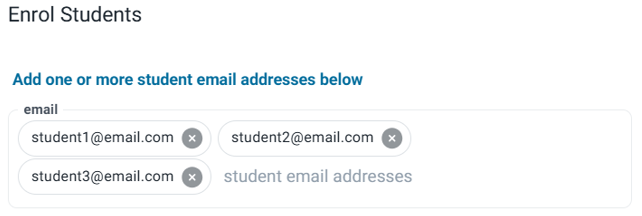
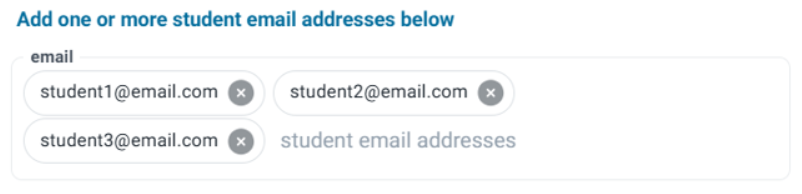
Update to good-practice.md (#21)
* Update faq.md

* Add files via upload

updated picture, removed 'enrol students' so is less confusing

* Update gettingstarted.md

* Update good-practice.md

Added headings and adjusted order.

Changed region(s): [[0.0312, 0.5876, 0.6542, 0.866], [0.0, 0.2474, 0.6542, 0.5567], [0.0, 0.0309, 0.5919, 0.1546]]

diff --git a/docs/teacher/guides/good-practice.md b/docs/teacher/guides/good-practice.md
@@ -1,32 +1,62 @@
 # Good practice
 
-## Romanised operators
+## Formatting & style for readability
 
-Use romanised operators such as $\sin$, $\frac{\mathrm{d}}{\mathrm{d}x}$ instead of $sin$, $\frac{d}{dx}$, etc.
+### Use romanised text for operators and units
 
-## Use empty lines
+Use romanised operators and scientific units to distinguish them from variables, which are italicised.
 
-Using empty lines can improve the readability and neatness of your content. Empty lines are often useful before and after an equation, and between paragraphs of text. An empty line in markdown requires _two spaces_ on the line, otherwise the line is ignored.
+*   **Operators:** Use `\sin`, `\cos`, `\log`, `\det`, etc. For derivatives, use `\mathrm{d}` as in `\dfrac{\mathrm{d}y}{\mathrm{d}x}`.
+    *   **Correct:** $\sin(x)$, $\dfrac{\mathrm{d}}{\mathrm{d}x}$
+    *   **Incorrect:** $sin(x)$, $\frac{d}{dx}$
 
-## Space between numbers and units
+*   **Units:** Use `\text{...}` or `\mathrm{...}` (mathrm allows for numbers in the units, i.e. $\mathrm{m^2}$). Ensure the unit's case is correct (e.g., `m` for milli, `M` for mega).
+    *   **Correct:** $5 \text{ m}$, $10 \text{ kN}$
+    *   **Incorrect:** $5 m$, $10 kN$
+
+### Space between numbers and units
 
 Put appropriate space between a number and its unit, such as `5 m` or `3 kg`, according to the SI conventions.
 
-## Romanise units and check their case
+e.g. `$5 \text{ m}$` to get $5 \text{ m}$
 
-Use romanised units such as $\text{m}$, $\text{kN}$ instead of $m$, $kN$. Ensure that the case of the unit is correct.
+### Use empty lines
 
-## Add tests to response areas
+Using empty lines can improve the readability and neatness of your content.
 
-In a response area, press `configure` then `tests`.
+Empty lines are often useful before and after an equation, and between paragraphs of text. An empty line in markdown requires _two spaces_ on the line, otherwise the line is ignored.
 
-Tests allow you to enter potential student responses, define whether they are correct or not, then run the evaluation function on those student responses. This allows you to quickly test whether or not the evaluation function works as expected.
+Alternatively, adding empty LaTeX text, `\text{}`, can work if all else fails.
 
-## Save and publish as you go
+## Using platform features effectively
+
+### Save and publish as you go
 
 Saving and publishing work regularly is recommended to prevent accidental data loss.
 
-## Use branching when relevant
+### Add tests to response areas
+
+In a response area, press `Configure` then `Test`.
+
+Tests allow you to enter potential student responses, define whether they are correct or not, then run the evaluation function on those student responses. This allows you to quickly test whether or not the evaluation function works as expected.
+
+### Use pre-response area text to be clear what should be entered
+
+Pre-response area text is found under `Configure` - `Input` in the evaluation function.
+
+You can use LaTeX in the pre-response area text.
+
+![Image showing a pre-response area](images/pre_response_area.png)
+
+### Use live preview and permit all types of input
+
+Live preview is found under `Configure` - `Input` - `Display settings`.
+
+Live preview instantly renders a student's input. This is very useful for long/complicated equations, as it allows students to ensure their input is correct.
+
+![Image showing a live-preview to a student's response](images/live_preview.png)
+
+### Use branching when relevant
 
 Branching is a feature for `worked solutions`. It allows you to have different solution pathways Usage examples:
 
@@ -35,44 +65,37 @@ Branching is a feature for `worked solutions`. It allows you to have different s
 
 ![gif showing the branching feature](images/branching.gif)
 
-## Use pre-response area text to be clear what should be entered
+### Use audio clips
 
-Pre-response area text is found under `configure` - `INPUT` in the evaluation function.
+Just drag + drop an audio file into the editor.
 
-You can use LaTeX in the pre-response area text.
+### Issue with input symbols
 
-![Image showing a pre-response area](images/pre_response_area.png)
+When defining the `code` of an input symbol in the response areas, the system cannot accept brackets (i.e using `dot(x)` for $\dot{x}$). The response must be formatted in a different way (i.e `dot_x`). 
 
-## Use `\dfrac` for bigger fractions when needed.
-
-Use `$\dfrac{numerator}{denominator}$` for bigger fractions when you need to display them more clearly or emphasize them. For example, `$\dfrac{3}{4}$` will produce a bigger fraction than `$\frac{3}{4}$`.
-Alternatively, you can use `$\displaystyle$` at the start of an inline equation to render everything afterwards full-size (as in display maths mode), this is especially helpful for integrals.
-
-## Use `\small` when smaller fonts or fractions are needed
-
-Use `$\small{text}$` when you need to display smaller fonts or fractions in your LaTeX expressions. For example, `$\small{\frac{1}{2}}$` will produce a smaller fraction than `$\frac{1}{2}$`.
-
-## Use audio clips
-
-Just drag + drop an audio file into the milkdown editor.
-
-## Issue with input symbols
-
-For the `code` of input symbols in the response areas, the system cannot accept brackets (i.e `dot(x)` for $\dot{x}$) and response must be formatted in different ways (i.e `dot_x`). 
-
-`a_b` will render as $a_b$ without adding an input symbol, but note that `dot_x` overrides the `_` input (in this example, will render as $\dot{x}$ instead of $dot_x$)
-
-## Use live preview and permit all types of input
-
-Live preview and input types are found in an evaluation function under `configure` - `INPUT`.
-
-Live preview instantly renders a student's input. This is very useful for long/complicated equations, as it allows students to ensure their input is correct.
-
-![Image showing a live-preview to a student's response](images/live_preview.png)
+`a_b` will render as $a_b$ without adding an input symbol, but note that `dot_x` will override the `_` input in this example (will render as $\dot{x}$ instead of $dot_x$).
 
 ## Latex help
 
-1. Use `\begin{array}` to generate a compact table i.e.  
+### Use `\dfrac` for bigger fractions when needed.
+
+Use `$\dfrac{numerator}{denominator}$` for bigger fractions when you need to display them more clearly or emphasize them. For example, `$\dfrac{3}{4}$` will produce a bigger fraction than `$\frac{3}{4}$`:
+
+$\dfrac{3}{4} \quad$    (dfrac)
+
+$\frac{3}{4} \quad$    (frac)
+
+Alternatively, you can use `$\displaystyle$` at the start of an inline equation to render everything afterwards full-size (as in display maths mode), this is especially helpful for integrals.
+
+### Use `\small` when smaller fonts or fractions are needed
+
+Use `$\small{text}$` when you need to display smaller fonts or fractions in your LaTeX expressions. For example, `$\small{\frac{1}{2}}$` will produce a smaller fraction than `$\frac{1}{2}$`.
+
+$\small{\frac{1}{2}} \quad$ (small)
+
+$\frac{1}{2}$
+
+### Use `\begin{array}` to generate a compact table i.e.  
     
     ```latex
     \begin{array}{|c|c|}
@@ -88,7 +111,7 @@ Live preview instantly renders a student's input. This is very useful for long/c
 
     ![Image showing a example of a table](images/table.png)
 
-2. Use `\begin{aligned}` to keep your working formatted nicely
+### Use `\begin{aligned}` to keep your working formatted nicely
 
     ```latex
     \begin{aligned}
@@ -100,7 +123,7 @@ Live preview instantly renders a student's input. This is very useful for long/c
 
     ![Image showing a example of a algined working](images/aligned.png)
 
-3. Use `\left` and `\right` for equations with multiple brackets
+### Use `\left` and `\right` for equations with multiple brackets
 
     ```latex
     f(x)=\left (\frac{(\cos (x) -x) + i(\sin (x) - x)}{wi} \right)
@@ -110,4 +133,6 @@ Live preview instantly renders a student's input. This is very useful for long/c
 
     This also works for `[ ]` and `\{ \}`
 
-4. Use `\sin`, `\cos`, etc. as a shortcut for `\text{sin }`, `\text{cos }`, etc.
+### Shortcut for romanised operators
+
+Use `\sin`, `\cos`, etc. as a shortcut for `\text{sin }`, `\text{cos }`, etc.

diff --git a/docs/teacher/guides/gettingstarted.md b/docs/teacher/guides/gettingstarted.md
@@ -64,11 +64,11 @@ In **Teacher mode**, open your module's home page, click the 'Students' tab, and
 
 Enter a student's email address, or alternatively paste in a list of email addresses separated by commas.
 
-![Add_student_before](./images/Add_student_before.png)
+![Add_student_before](./images/Add_student_before.png){: style="width:200px"}
 
 Press 'Enter' to add the email addresses:
 
-![Add_student_after](./images/Add_student_after.png)
+![Add_student_after](./images/Add_student_after.png){: style="width:200px"}
 
 Then click 'SUBMIT' to enrol the students.
 

diff --git a/docs/teacher/guides/faq.md b/docs/teacher/guides/faq.md
@@ -10,6 +10,8 @@ Students and users are given access to a module using their college email addres
 4. Enter the enrolment page by clicking the **Entroll Students :material-plus:** button
 5. Enroll students by supplying one or more student email addresses
 
+For a visual guide, click [here](./gettingstarted.md#enrolling-students)
+
 ## How can I move questions between problem sets?
 
 When creating a new question the teacher can choose to "clone" from an existing question. The teacher can then delete the original version.
